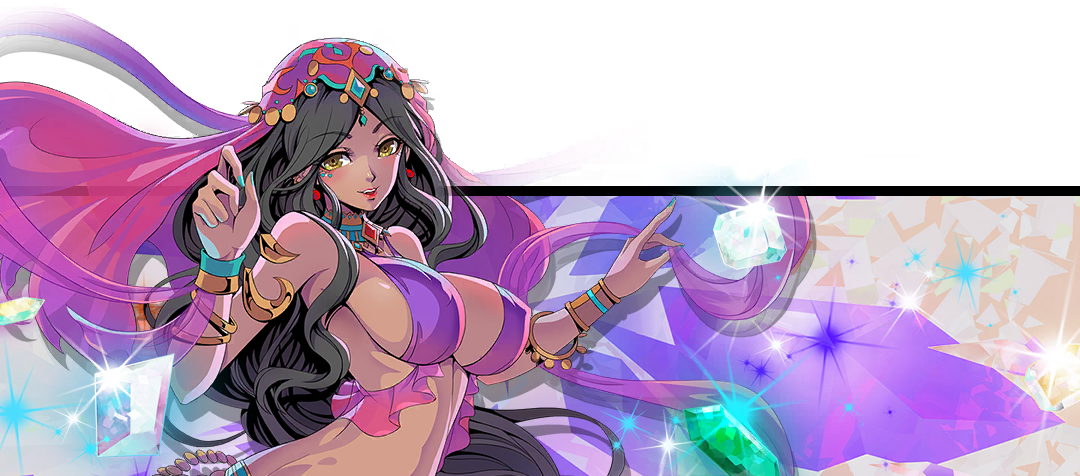
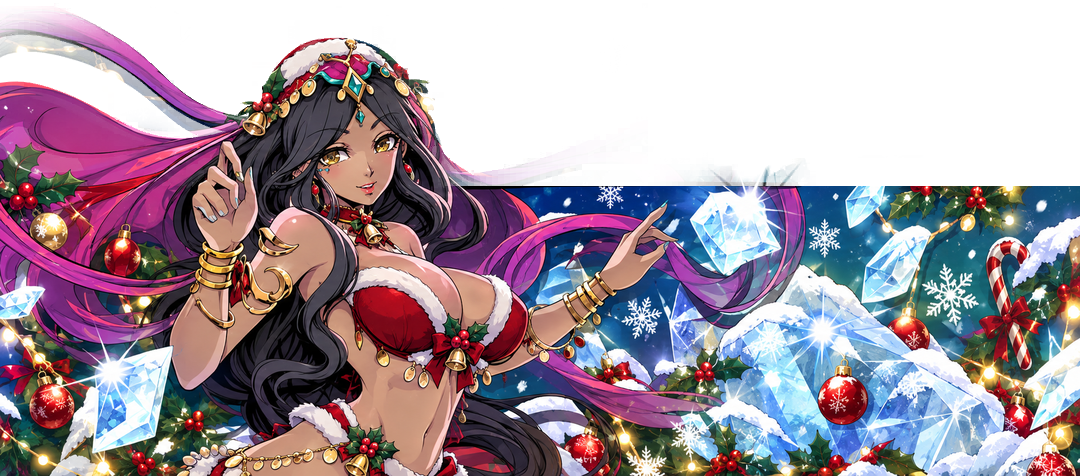
feat(art): 时空战场商店配图换圣诞版（1080x476）+ 管线补画风锁/OUTFIT/空对话守卫文档
- #18：THEME=christmas / COMPOSITION=lock / ALPHA_MODE=source / OUTFIT 覆盖服装句
- 舞娘服装保持原剪裁与露肤度，只换面料：深红丝绒+白毛边+金币腰带+冬青铃铛
- 右侧水晶群→冰晶+雪+红金球，黑色斜切线原样保留；alpha 掩膜 100% 一致，verify 8/8
- 文档：参数表补 OUTFIT、主题卡补 style_lock 说明、常见问题补「串上一张图」的坑与守卫

diff --git a/docs/art_restyle_pipeline.md b/docs/art_restyle_pipeline.md
@@ -63,6 +63,7 @@ $PY scripts/image/gen_chatgpt_web.py --image "$W/src/source.png" --prompt-file "
 | `GEN_IMAGE`                  | manual 时显式指定生成图；留空取 inbox 里最新的                                                                      |
 | `CDP_PORT`                   | 复用外部已登录浏览器（AdsPower/SunBrowser）的调试端口，`find_browser_cdp.py` 反查。留空=用本机 Chrome                         |
 | `LAYOUT`                     | 构图锁文本。**每张图的文案不同，所以文案一定写这里，不要写进主题预设**                                                               |
+| `OUTFIT`                     | 按图覆盖主题的服装句（只改「穿什么」，配色/装饰仍走主题）。**角色的剪裁/露肤度属于设计的一部分时必填**——主题默认大衣会把舞娘/泳装/战甲角色裹住，等于偷偷改了构图 |
 | `COMPOSITION`                | `lock`（默认，人物姿势/位置/缩放全锁，只换衣服与配色）／`free`（允许重设计人物姿势与镜头换吸引力）。见下节                                        |
 | `PROMPT_OVERRIDE`            | 整段覆盖提示词（LAYOUT 不够用时才用）                                                                              |
 | `HERO_BAND`                  | 超长条底板专用：英雄带像素高度（如 `930`）或 `auto`。留空=整幅等比 cover                                                      |
@@ -409,3 +410,4 @@ _output/art_restyle/<资源名>/<主题>/
 | `chatgpt_web` 报「超时仍未拿到图」 | 先看是不是额度用尽（driver 会打印页面尾部文本）；free 计划额度很小 |
 | 右下角装饰被抹掉一块 | 水印判据误判 → 确认用的是新版 `detect_mask`（亮+灰+排成一行三条件），必要时 `--watermark off` |
 | driver 报 `connectOverCDP` 是 undefined | `playwright-core` 的 CJS 默认导出没取：`(await import(x)).default ?? ...` |
+| **新图里出现上一张图的角色/道具**（如商店配图凭空多出巡逻图的球鞋） | 浏览器标签停在上一个对话，ChatGPT 把上一张参考图一起带进上下文。driver 现在出图前强制确认空对话（`/c/` 或已有消息就切新对话，切不动直接 rc=3 拒发）；**别用 `--grab-existing` 绕过**。防御性写法：`LAYOUT` 里明写「图里没有 X，不许画 X」 |

diff --git a/docs/art_restyle_themes.md b/docs/art_restyle_themes.md
@@ -17,6 +17,10 @@
 ## 0. 一句话
 
 主题 = `theme_presets.json` 里的一组字段。**换主题不改代码**，只改预设；能不能直接出图由 `themes --check` 判定。  
+🔴 **画风锁（`style_lock`）**：`PROMPT_TEMPLATE` 里有一整段 `STYLE LOCK`，排在构图锁之前，用最高优先级要求
+「复刻源图的画法」——平涂赛璐璐就还是平涂，不许换成厚涂/3D/柔光。它不属于任何主题，对所有主题生效；
+预设里写 `"style_lock": ""` 可以关掉（资源本来就要换渲染方式时）。**没有它，模型会把「换风格」理解成「重画一遍」，
+单张看都不丑，放进游戏里就跟别的 UI 不是一套。**
 一张图的完整链路：`prepare → prompt →（provider 出图）→ postprocess → verify →（preview）→（publish）`，  
 其中只有「provider 出图」不可复现，其余每一步都可断言——所以批量也把出图当外部失败处理，不重试到天荒地老。
 
